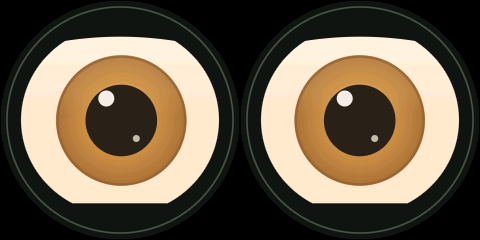
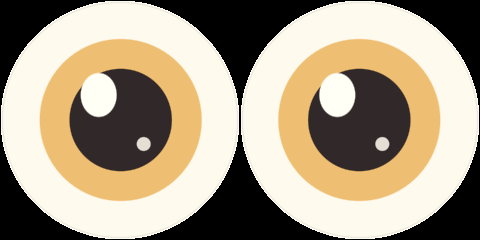
Refine cartoon eyes and preserve conversation across reconnects

diff --git a/firmware/components/pikoo_eyes/eyes.cpp b/firmware/components/pikoo_eyes/eyes.cpp
@@ -29,27 +29,25 @@ Color accent(State s) {
   return color(0xCCA468);
 }
 Pose target(const Input &i) {
-  Pose p; p.state=i.state; p.time_ms=i.time_ms;
+  Pose p; p.state=i.state; p.time_ms=i.time_ms; p.open=1; p.pupil=49;
   float seconds=static_cast<float>(i.time_ms/1000.);
   float level=clamp(i.level,0,1);
   p.x=clamp(i.gaze_x,-1,1)*18; p.y=clamp(i.gaze_y,-1,1)*12;
-  p.blink=blink(i.time_ms,i.seed);
+  p.blink=(i.state==State::Idle||i.state==State::Muted)?0:blink(i.time_ms,i.seed);
   switch (i.state) {
-    case State::Boot: p.open=.65f; p.ring=.7f; break;
-    case State::Idle:
-      p.x+=std::sin(seconds*.43f+noise(i.seed)*3)*7;
-      p.y+=std::sin(seconds*.31f)*3; p.open=.75f; break;
-    case State::Connecting: p.open=.98f; p.pupil=36; p.ring=.8f; break;
-    case State::Listening: p.open=.98f; p.pupil=34+level*6; p.ring=.32f+level*.2f; break;
-    case State::Thinking: p.y-=12; p.x+=std::sin(seconds*1.5f)*3; p.open=.8f; p.ring=.5f; break;
-    case State::Speaking: p.open=.88f+level*.1f; p.pupil=33+level*5; p.y-=level*2; p.ring=.3f+level*.4f; break;
-    case State::Muted: p.open=.48f; p.saturation=.08f; p.pupil=29; break;
-    case State::Offline: p.open=.6f; p.x-=5; p.saturation=.5f; p.ring=.35f; break;
-    case State::Occupied: p.x+=15; p.open=.72f; p.ring=.25f; break;
-    case State::AuthError: p.open=.66f; p.tilt=.07f; p.saturation=.5f; p.ring=.55f; break;
-    case State::Happy: p.open=.82f; p.smile=1; p.pupil=37; p.ring=.5f; break;
-    case State::Drowsy: p.open=.3f; p.y+=6; p.pupil=28; break;
-    case State::Curious: p.x+=12; p.y-=7; p.open=1; p.pupil=39; p.tilt=.05f; break;
+    case State::Boot: p.open=0; p.ring=.6f; break;
+    case State::Idle: p.open=0; p.y=std::sin(seconds*.7f)*.7f; break;
+    case State::Connecting: p.pupil=53; p.ring=.7f; break;
+    case State::Listening: p.pupil=50+level*4; p.ring=.2f+level*.15f; break;
+    case State::Thinking: p.y-=12; p.x+=std::sin(seconds*1.5f)*3; p.pupil=47; p.ring=.3f; break;
+    case State::Speaking: p.pupil=50+level*4; p.y-=level*2; p.ring=.2f+level*.3f; break;
+    case State::Muted: p.open=0; p.saturation=.08f; break;
+    case State::Offline: p.x-=5; p.pupil=46; p.saturation=.65f; p.ring=.25f; break;
+    case State::Occupied: p.x+=15; p.pupil=46; p.ring=.25f; break;
+    case State::AuthError: p.tilt=.08f; p.pupil=46; p.saturation=.5f; p.ring=.45f; break;
+    case State::Happy: p.smile=1; p.pupil=52; p.ring=.3f; break;
+    case State::Drowsy: p.open=.28f; p.y+=5; p.pupil=46; break;
+    case State::Curious: p.x+=12; p.y-=7; p.pupil=55; p.tilt=.08f; break;
   }
   return p;
 }
@@ -76,41 +74,47 @@ bool render(const Pose &p,int side,uint16_t *out,std::size_t count) {
       !std::isfinite(p.pupil) || !std::isfinite(p.tilt) || !std::isfinite(p.smile) ||
       !std::isfinite(p.blink) || !std::isfinite(p.saturation) || !std::isfinite(p.ring) ||
       !std::isfinite(p.time_ms)) return false;
-  Color bg=color(0x171714), white=color(0xFFF1D9), iris=color(0xCD9148), rim=color(0x8D592E), pupil=color(0x2D211C);
+  Color bg=color(0x252427), white=color(0xFFF8EB), iris=color(0xEDBD70), pupil=color(0x332A29);
   Color a=accent(p.state);
-  float cx=120+clamp(p.x,-32,32)+(side?-.8f:.8f), cy=120+clamp(p.y,-24,24);
-  float open=clamp(p.open,.05f,1)*(1-clamp(p.blink,0,1));
-  float radius=clamp(p.pupil,22,46);
+  float cx=119.5f+clamp(p.x,-28,28)+(side?-.7f:.7f);
+  float cy=119.5f+clamp(p.y,-22,22)+clamp(p.tilt,-.1f,.1f)*(side?35:-35);
+  float open=clamp(p.open,0,1)*(1-clamp(p.blink,0,1));
+  float radius=clamp(p.pupil,40,58);
   for (int y=0;y<Height;y++) for(int x=0;x<Width;x++) {
     float dx=x-119.5f,dy=y-119.5f,disc=std::sqrt(dx*dx+dy*dy);
     if (disc>=119.5f) { out[y*Width+x]=0; continue; }
     Color c=bg;
-    // A restrained inner status ring leaves the artwork room to breathe.
-    float ring_cover=cover(std::abs(disc-113)-.8f)*clamp(p.ring,0,1);
-    if (p.state==State::Connecting || p.state==State::Boot) {
-      float ang=std::atan2(dy,dx)+static_cast<float>(std::fmod(p.time_ms*.0018,2*Pi));
-      ring_cover*=.25f+.75f*(std::sin(ang)*.5f+.5f);
-    }
-    c=mix(c,a,ring_cover);
-    float ellipse=(dx*dx/(99*99.f)+dy*dy/(95*95.f)-1)*45;
-    float upper=-open*85 + dx*dx*.0014f + clamp(p.tilt,-.1f,.1f)*dx*(side?1:-1);
-    float lower=open*85 - clamp(p.smile,0,1)*(36-dx*dx*.0025f);
-    float mask=std::min(cover(ellipse),std::min(cover(upper-dy),cover(dy-lower)));
-    if (mask>0) {
-      Color eye=mix(white,color(0xEBCFA7),clamp((dy+65)/220,0,.23f));
+    // Opening is a rounded ellipse, rather than two straight black eyelid masks.
+    // At full openness the entire circular display is the eyeball.
+    float mask=0;
+    if(open>=.999f)mask=1;
+    else if(open>.035f){float ey=dy/open;mask=cover((std::sqrt(dx*dx+ey*ey)-119.5f)*open/1.2f);}
+    if(mask>0){
       float ix=x-cx,iy=y-cy,ir=std::sqrt(ix*ix+iy*iy);
-      Color amber=mix(iris,rim,clamp((ir-35)/30,0,1)*.55f);
-      amber=mix(amber,color(0xE2B56B),clamp((-iy-5)/100,0,.25f));
-      eye=mix(eye,amber,cover(ir-65));
-      eye=mix(eye,rim,cover(std::abs(ir-64)-1.4f)*.6f);
-      eye=mix(eye,pupil,cover(ir-radius));
-      float h1=std::sqrt((ix+15)*(ix+15)+(iy+22)*(iy+22));
-      float h2=std::sqrt((ix-15)*(ix-15)+(iy-18)*(iy-18));
-      eye=mix(eye,color(0xFFF9EA),cover(h1-8)*.95f);
-      eye=mix(eye,color(0xFFF9EA),cover(h2-3.5f)*.7f);
+      Color eye=white;
+      Color amber=iris;
+      eye=mix(eye,amber,cover((ir-81)/1.4f));
+      float round_pupil=cover((ir-radius)/1.3f);
+      float q=clamp(ix,-43,43),arch=-10+q*q*.014f;
+      float smile_pupil=cover((std::sqrt((ix-q)*(ix-q)+(iy-arch)*(iy-arch))-9)/1.3f);
+      eye=mix(eye,pupil,lerp(round_pupil,smile_pupil,clamp(p.smile,0,1)));
+      float h1=(std::sqrt((ix+22)*(ix+22)/324+(iy+25)*(iy+25)/484)-1)*18;
+      float h2=std::sqrt((ix-23)*(ix-23)+(iy-24)*(iy-24))-7;
+      float shine=(1-clamp(p.smile,0,1));
+      eye=mix(eye,color(0xFFFCF3),cover(h1/1.3f)*shine);
+      eye=mix(eye,color(0xFFFCF3),cover(h2/1.3f)*.85f*shine);
       c=mix(c,eye,mask);
     }
-    if (open<.08f) c=mix(c,rim,cover(std::abs(dy-(dx*dx*.0014f))-1.3f)*cover(std::abs(dx)-76));
+    // Soft, round-ended sleeping arcs; also provide a clean closed blink frame.
+    if(open<.09f){
+      float lx=x-cx,q=clamp(lx,-77,77),curve=5+(77*77-q*q)*.0023f;
+      float distance=std::sqrt((lx-q)*(lx-q)+(y-cy-curve)*(y-cy-curve));
+      c=mix(c,color(0xEAC898),cover((distance-3.2f)/1.3f)*clamp((.09f-open)/.055f,0,1));
+    }
+    // Status remains subtle and lives at the circular perimeter, never as a bar.
+    float ring_cover=cover(std::abs(disc-117.5f)-.6f)*clamp(p.ring,0,1);
+    if(p.state==State::Connecting||p.state==State::Boot){float ang=std::atan2(dy,dx)+static_cast<float>(std::fmod(p.time_ms*.0018,2*Pi));ring_cover*=.25f+.75f*(std::sin(ang)*.5f+.5f);}
+    c=mix(c,a,ring_cover);
     float gray=c.r*.3f+c.g*.59f+c.b*.11f;
     c=mix({gray,gray,gray},c,clamp(p.saturation,0,1));
     unsigned r=static_cast<unsigned>(clamp(c.r,0,255)+.5f),g=static_cast<unsigned>(clamp(c.g,0,255)+.5f),b=static_cast<unsigned>(clamp(c.b,0,255)+.5f);

diff --git a/firmware/simulator/eyes-core.test.cpp b/firmware/simulator/eyes-core.test.cpp
@@ -21,10 +21,17 @@ int main(){
   pose.x=std::numeric_limits<float>::quiet_NaN();assert(!render(pose,0,a.data(),EyePixels));
  }
  assert(seen.size()==StateCount);
+ // Awake eyeballs fill the disc at the top/bottom; no persistent black bars.
+ Animator awake;auto listening=awake.update({State::Listening,1000});assert(render(listening,0,a.data(),EyePixels));
+ auto bright=[](uint16_t c){return ((c>>11)&31)>24&&((c>>5)&63)>50;};
+ assert(bright(a[20*240+120])&&bright(a[220*240+120]));
+ Animator sleeping;auto idle_pose=sleeping.update({State::Idle,1000});assert(idle_pose.open==0&&idle_pose.blink==0);
+
  Animator animator;auto idle=animator.update({State::Idle,1000});auto initial=animator.update({State::Listening,1050});assert(initial.open==idle.open);
- auto middle=animator.update({State::Listening,1160});assert(middle.open>idle.open&&middle.open<.98f);
- auto end=animator.update({State::Listening,1270});assert(std::abs(end.open-.98f)<.001);
+ assert(idle.open==0&&idle.blink==0);
+ auto middle=animator.update({State::Listening,1160});assert(middle.open>idle.open&&middle.open<1);
+ auto end=animator.update({State::Listening,1270});assert(std::abs(end.open-1)<.001);
  double previous=-1,blinkStart=-1;bool blinking=false;int count=0;
- animator.reset();for(int ms=0;ms<60000;ms++){auto p=animator.update({State::Idle,double(ms),42});bool now=p.blink>0;if(now&&!blinking){blinkStart=ms;if(previous>=0){assert(ms-previous>=3000&&ms-previous<=5000);}previous=ms;count++;}if(!now&&blinking)assert(ms-blinkStart>=149&&ms-blinkStart<=151);blinking=now;}
+ animator.reset();for(int ms=0;ms<60000;ms++){auto p=animator.update({State::Listening,double(ms),42});bool now=p.blink>0;if(now&&!blinking){blinkStart=ms;if(previous>=0){assert(ms-previous>=3000&&ms-previous<=5000);}previous=ms;count++;}if(!now&&blinking)assert(ms-blinkStart>=149&&ms-blinkStart<=151);blinking=now;}
  assert(count>=14);std::cout<<"13 deterministic states, bounds, crop, binocular gaze, 220ms transition and 3..5s/150ms blink passed\n";
 }

diff --git a/tools/render-eyes.py b/tools/render-eyes.py
@@ -8,17 +8,17 @@ root = Path(__file__).resolve().parents[1]
 output = root / 'docs/images/dualeye'
 output.mkdir(parents=True, exist_ok=True)
 states = [
- ('boot', '启动', '半睁眼 · 温暖环形提示'),
- ('idle', '待机', '放松眼睑 · 轻微扫视'),
+ ('boot', '启动', '闭眼启动 · 温暖环形提示'),
+ ('idle', '待机', '未唤醒闭眼 · 轻微呼吸'),
  ('connecting', '连接', '睁大眼睛 · 暖色连接提示'),
  ('listening', '倾听', '视线居中 · 响应输入音量'),
  ('thinking', '思考', '轻微向上看 · 低幅度运动'),
  ('speaking', '说话', '播放音量驱动 · 平滑变化'),
- ('muted', '静音', '半闭眼 · 降低饱和度'),
+ ('muted', '静音', '闭眼静音 · 降低饱和度'),
  ('offline', '离线', '低幅度提示 · 原因见网页'),
  ('occupied', '会话占用', '侧向视线 · 等待明确接管'),
  ('auth_error', '凭证错误', '克制提示 · 需要重新配对'),
- ('happy', '开心', '微笑眼睑 · 演示表情'),
+ ('happy', '开心', '弯弯笑眼 · 演示表情'),
  ('drowsy', '困倦', '低垂眼睑 · 演示表情'),
  ('curious', '疑惑', '上看侧瞥 · 演示表情'),
 ]

diff --git a/firmware/components/pikoo_eyes/include/pikoo_eyes.hpp b/firmware/components/pikoo_eyes/include/pikoo_eyes.hpp
@@ -16,7 +16,7 @@ struct Input {
   float level = 0, gaze_x = 0, gaze_y = 0;
 };
 struct Pose {
-  float x = 0, y = 0, open = .82f, pupil = 32, tilt = 0,
+  float x = 0, y = 0, open = 0, pupil = 49, tilt = 0,
         smile = 0, blink = 0, saturation = 1, ring = 0;
   State state = State::Idle;
   double time_ms = 0;

diff --git a/docs/dualeye.md b/docs/dualeye.md
@@ -45,20 +45,30 @@ node firmware/simulator/server.mjs
 
 ## 图形与状态
 
-奶油色圆润身体、短耳朵和深色眼框，屏幕是暖白眼白、琥珀虹膜、深棕瞳孔和小面积高光。左右眼共享视线目标并保留很小的差异，指针可以在预览区引导视线。
+奶油色圆润身体、短耳朵和深色眼框。唤醒后整块圆屏是完整眼球：平涂暖白眼白、蜂蜜色虹膜、圆润大瞳孔和两处柔和高光，没有常驻上下黑色眼睑。眨眼/困倦使用圆弧形闭合，不使用直线遮罩。左右眼共享视线目标并保留很小的差异，指针可以在预览区引导视线。
 
 | 状态 | 表现 |
 |---|---|
-| 启动、连接 | 半睁到睁大眼，温暖的低幅度连接提示 |
-| 待机 | 放松眼睑，轻微扫视，间歇眨眼 |
+| 启动、连接 | 闭眼启动，唤醒后睁开完整圆眼，温暖的低幅度提示 |
+| 待机 | 未唤醒闭眼，两条圆润睡眠弧线轻微呼吸 |
 | 倾听 | 视线居中、眼睑打开，按实际输入 RMS 平滑变化 |
 | 思考 | 轻微上看、低幅度周期运动 |
 | 说话 | 使用 WebAudio 播放链路 RMS，平滑改变瞳孔与眼睑 |
-| 静音 | 半闭眼、低饱和度，网页明确显示文字 |
+| 静音 | 闭眼、低饱和度，网页明确显示文字 |
 | 离线、占用、凭证错误 | 克制提示，具体原因和操作在网页侧栏 |
 | 开心、困倦、疑惑 | 仅供待机演示；通话立即恢复真实状态 |
 
-更新目标20fps、状态过渡220ms、眨眼150ms、相邻眨眼间隔3–5秒。固定动画时间、种子和音量可生成重复画面。浏览器后台会暂停画面请求；恢复后请求当前时间，避免补播旧帧。表情不判断家庭成员身份或对话情绪。
+更新目标20fps、状态过渡220ms、醒着时眨眼150ms、相邻眨眼间隔3–5秒；待机/静音保持闭眼。固定动画时间、种子和音量可生成重复画面。浏览器后台会暂停画面请求；恢复后请求当前时间，避免补播旧帧。表情不判断家庭成员身份或对话情绪。
+
+## 断线后接着聊
+
+之前的模拟器每次连接都生成新会话编号，无法可靠衔接近期对话。现在一次交流使用同一个随机会话编号，断线/重连、关闭再启用麦克风沿用它。只在明确“结束对话”时清除；30秒空闲仅关闭远程连接并闭眼待机，之后唤醒可沿用原编号。家庭长期记忆仍由服务器保留。
+
+浏览器只在当前标签页的 `sessionStorage` 保存编号和时间，不保存对话正文、录音或凭证。同标签页刷新后主动唤醒也可接回，编号24小时没有重新连接后过期；关闭标签页后的恢复不能保证。打开/刷新页面仍不会自动连接或录音。
+
+服务端沿用既有 GCP `sessionId` 与会话日志，由 Google Provider 在新连接就绪前注入近期对话文本。该窗口以最近40条消息、约3500字符为基础，长对话会裁剪；这与家庭长期记忆是两个机制。不是原生 Google 音频流续传：未识别、未记录或断网期间的语音不能恢复，旧音频清空，没说完的回答需你说“继续刚才的话题”。不自动重发用户请求，以免重复执行动作。
+
+可明确运行 `node tools/check-context-reconnect.mjs`：先记录临时测试暗号，再断线重连询问，检查沿用编号、回忆正确和主动结束换号。结果仅保存布尔值与计数，不输出暗号、家庭资料或对话正文。
 
 ## 同一核心在电脑与固件复用
 

diff --git a/docs/dualeye-validation.md b/docs/dualeye-validation.md
@@ -22,3 +22,11 @@
 源代码与状态设计图可公开；V5、私密配置、合成/家庭音频与原始服务日志留在本机。公开报告只保留统计和固定错误类别。30分钟任务正常结束，未发生参与测试进程的异常退出；RSS有垃圾回收与系统驻留变化，不能据此证明多天无增长。测试后清理了本地mock已完成定时器的引用，并再次通过迟到音频集成回归。
 
 仍待用户或实板验证：真人麦克风唤醒进入会话、成人/两个孩子分组测试、实听音质、真实自然插话与停声时间、双屏驱动、音频参考通道/AEC、实板FPS与资源、外壳声学、8小时误唤醒和72小时运行。浏览器AEC、编译成功和合成样本均不能代替这些检查。
+
+## 同日修订：完整卡通圆眼、闭眼待机与上下文接续
+
+- 完整圆眼替换常驻直线眼睑，虹膜改为平涂蜂蜜色，大瞳孔和柔和高光；待机/静音闭眼。原生13状态、圆屏裁切、220ms过渡及醒着时眨眼检查通过，新增倾听状态上下边仍为眼白的断言。
+- Node回归更新为16项全部通过，新增断线/静音/空闲待机保持会话编号、主动结束换号、标签页缓存期限及非法会话参数拒绝。
+- 真实服务上下文检查11.704秒通过：临时暗号→断开→新Google连接→正确回忆暗号；同编号为true，主动结束换号为true，音频14块，错误0。仅验证近期文本恢复，不宣称原始音频流或无限历史恢复。
+- ESP32-S3图形组件重新编译通过；浏览器闭眼/完整圆眼预览已更新。网页实际断线重连后显示接续提示，空闲待机保留话题，控制台错误/警告0。
+- 前文两组30分钟记录属于初版，不当作此修订版的新30分钟验收；本次按改动执行针对性回归和真实恢复检查。实板与真人麦克风边界不变。
